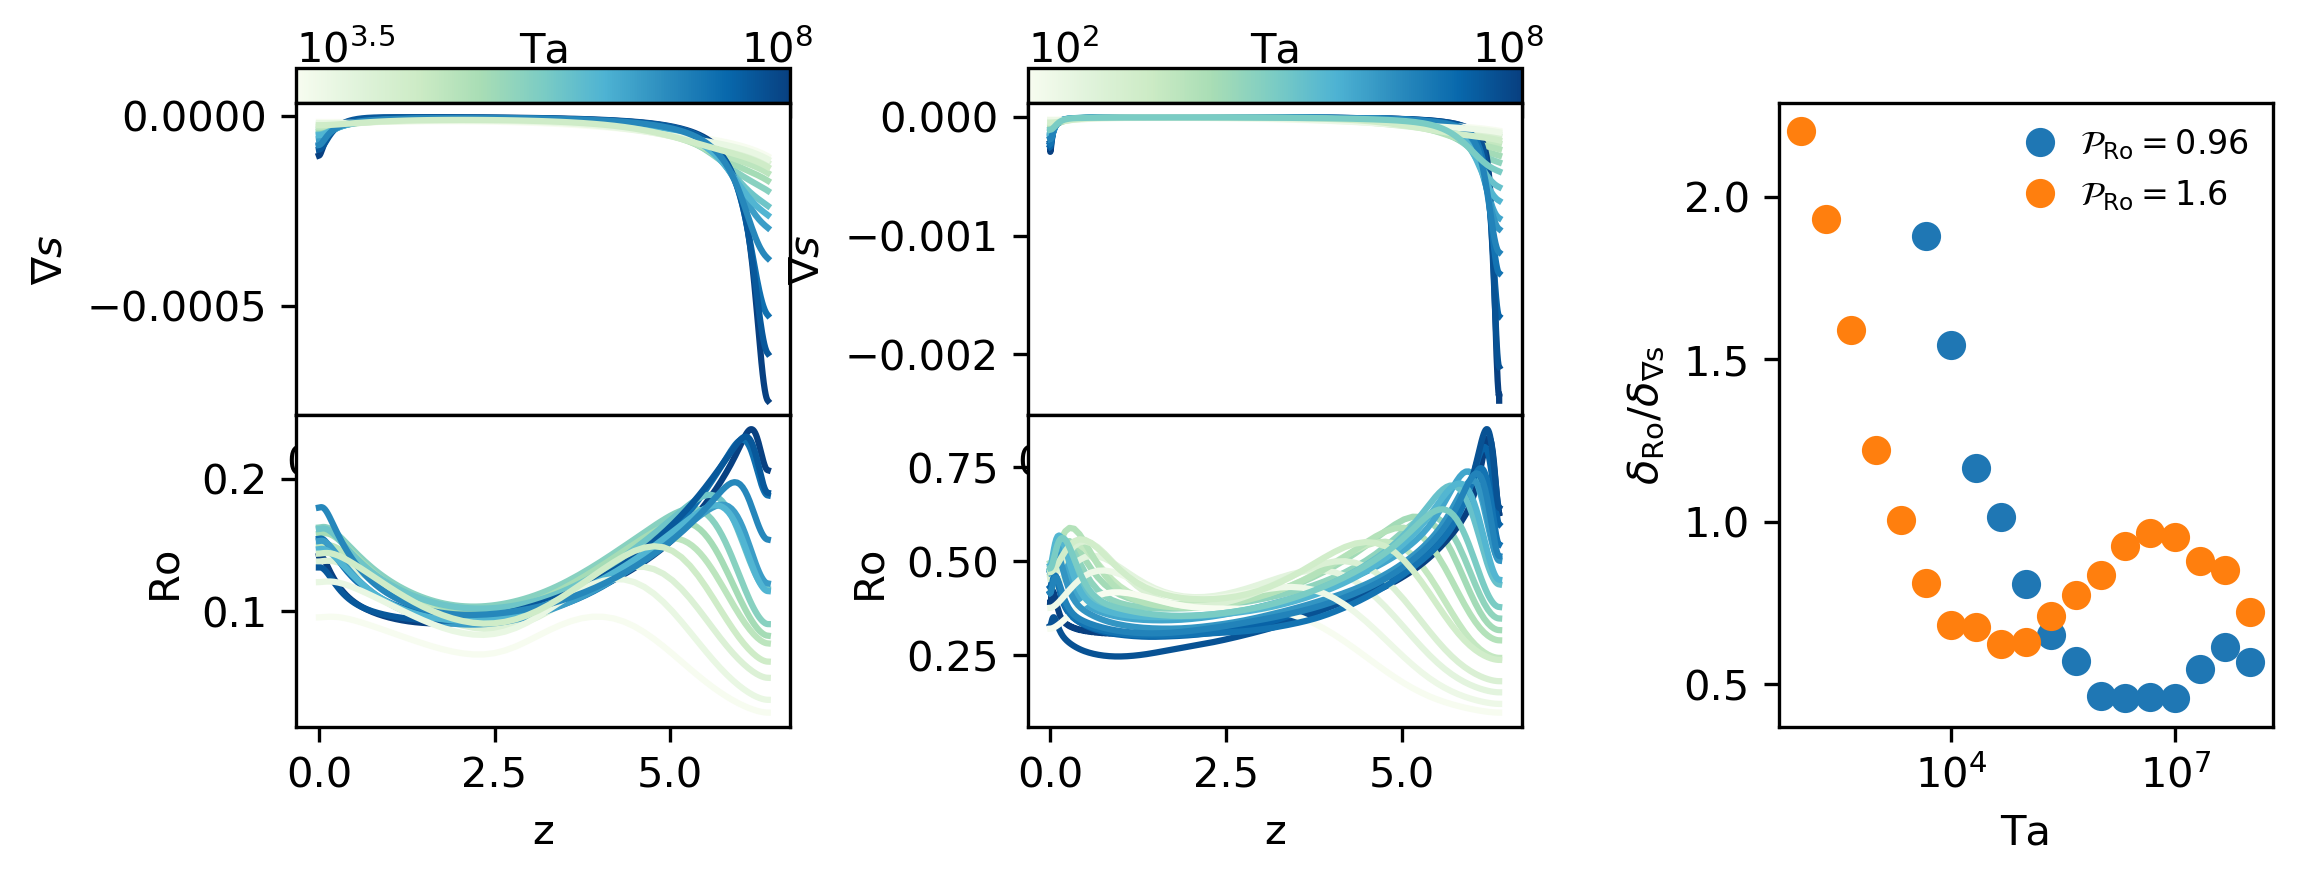
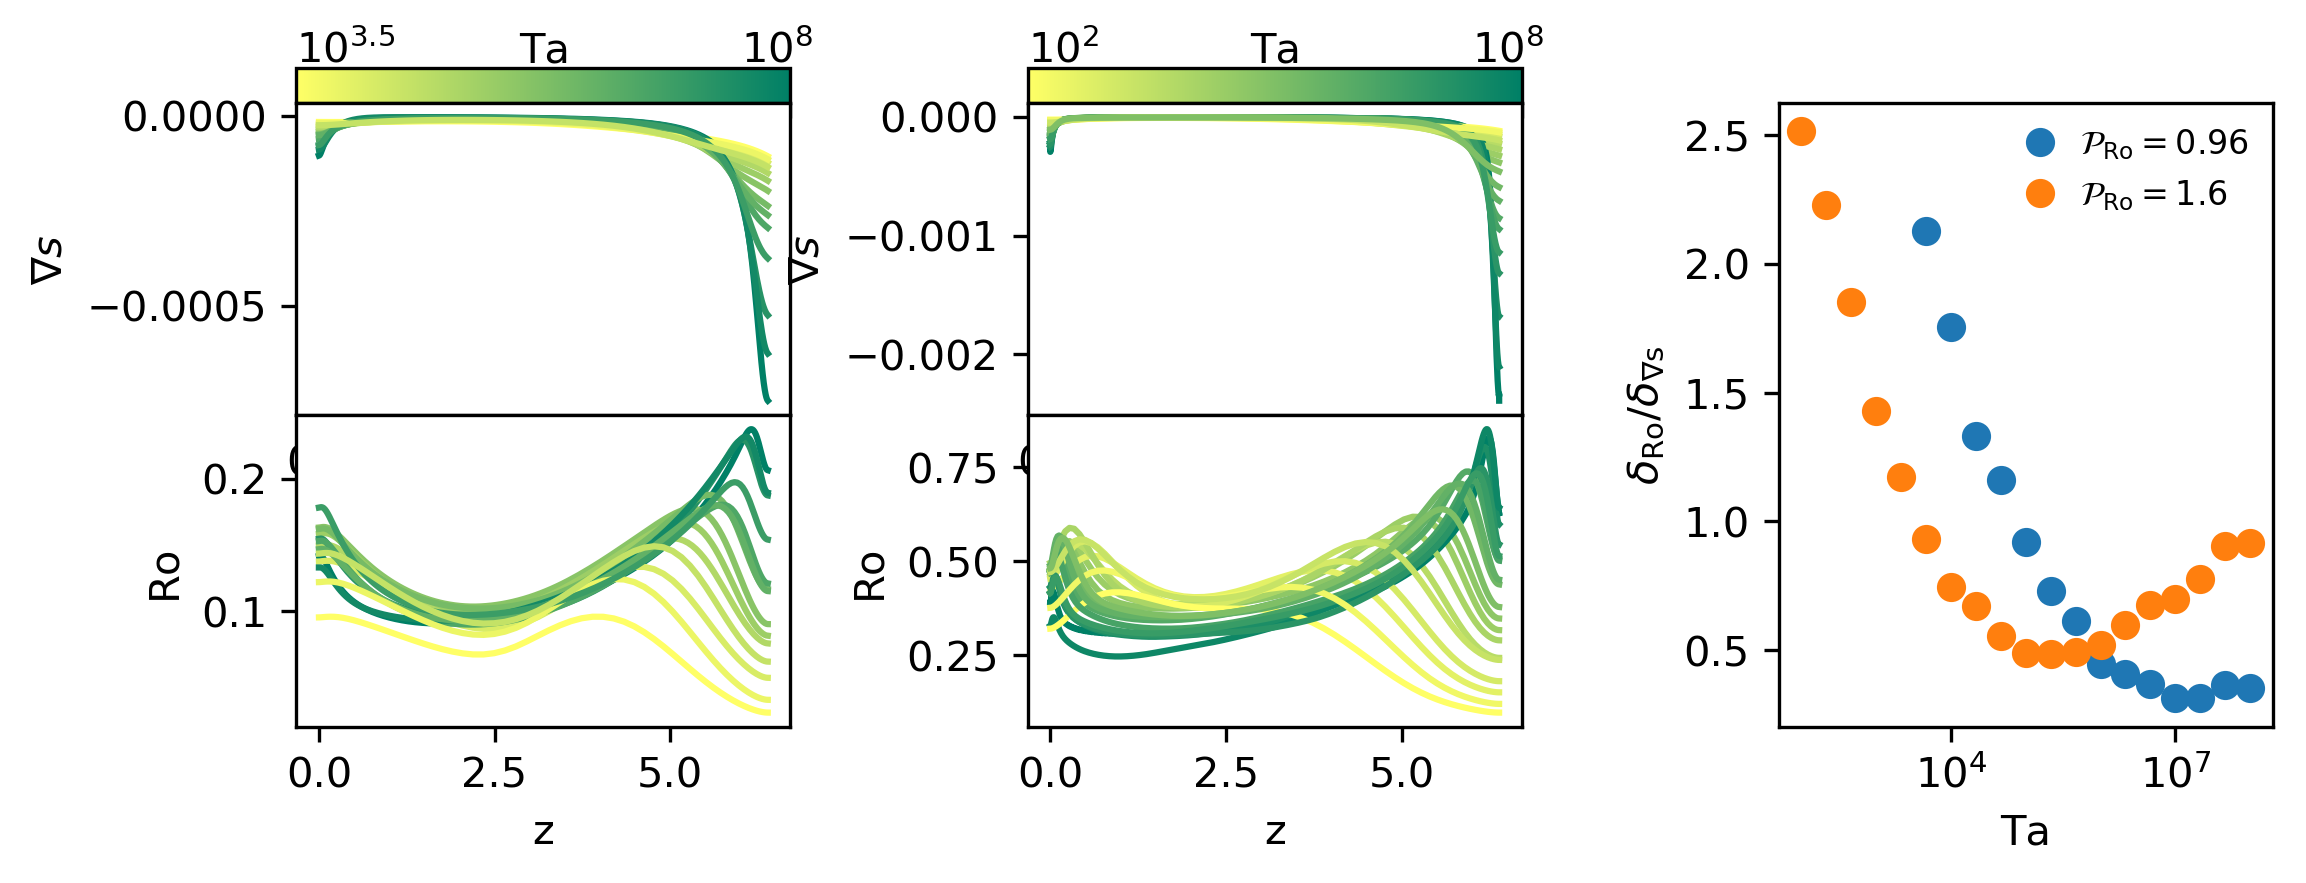
tweaks to fig 4

diff --git a/plots/fig4.py b/plots/fig4.py
@@ -8,7 +8,7 @@ import h5py
 
 Lz = np.exp(3/(1.5-1e-4)) - 1
 
-cmap = 'GnBu'
+cmap = 'summer_r'
 
 entropy_gradients = dict()
 rossby_profiles   = dict()
@@ -68,8 +68,8 @@ for key in rossby_profiles.keys():
     ax1_2.plot(z[key], rossby_profiles[key], c=sm.to_rgba(np.log10(ta)))
   
     n_pts = int(len(z[key])*5/100)
-    good_zs = z[key][z[key] <= 0.99*Lz]
-    good_grads = entropy_gradients[key][z[key] <= 0.99*Lz]
+    good_zs = z[key][z[key] <= 0.998*Lz]
+    good_grads = entropy_gradients[key][z[key] <= 0.998*Lz]
     fit = np.polyfit(good_zs[-n_pts:], good_grads[-n_pts:], deg=1)
 #    ax1_1.plot(z[key], fit[0]*z[key] + fit[1], c=sm.to_rgba(np.log10(ta)))
     z0  = -fit[1]/fit[0]
@@ -121,8 +121,8 @@ for key in rossby_profiles.keys():
     ax2_2.plot(z[key], rossby_profiles[key], c=sm.to_rgba(np.log10(ta)))
 
     n_pts = int(len(z[key])*5/100)
-    good_zs = z[key][z[key] <= 0.99*Lz]
-    good_grads = entropy_gradients[key][z[key] <= 0.99*Lz]
+    good_zs = z[key][z[key] <= 0.998*Lz]
+    good_grads = entropy_gradients[key][z[key] <= 0.998*Lz]
     fit = np.polyfit(good_zs[-n_pts:], good_grads[-n_pts:], deg=1)
 #    ax2_1.plot(z[key], fit[0]*z[key] + fit[1], c=sm.to_rgba(np.log10(ta)))
 #    ax2_1.axvline(Lz*0.99)
